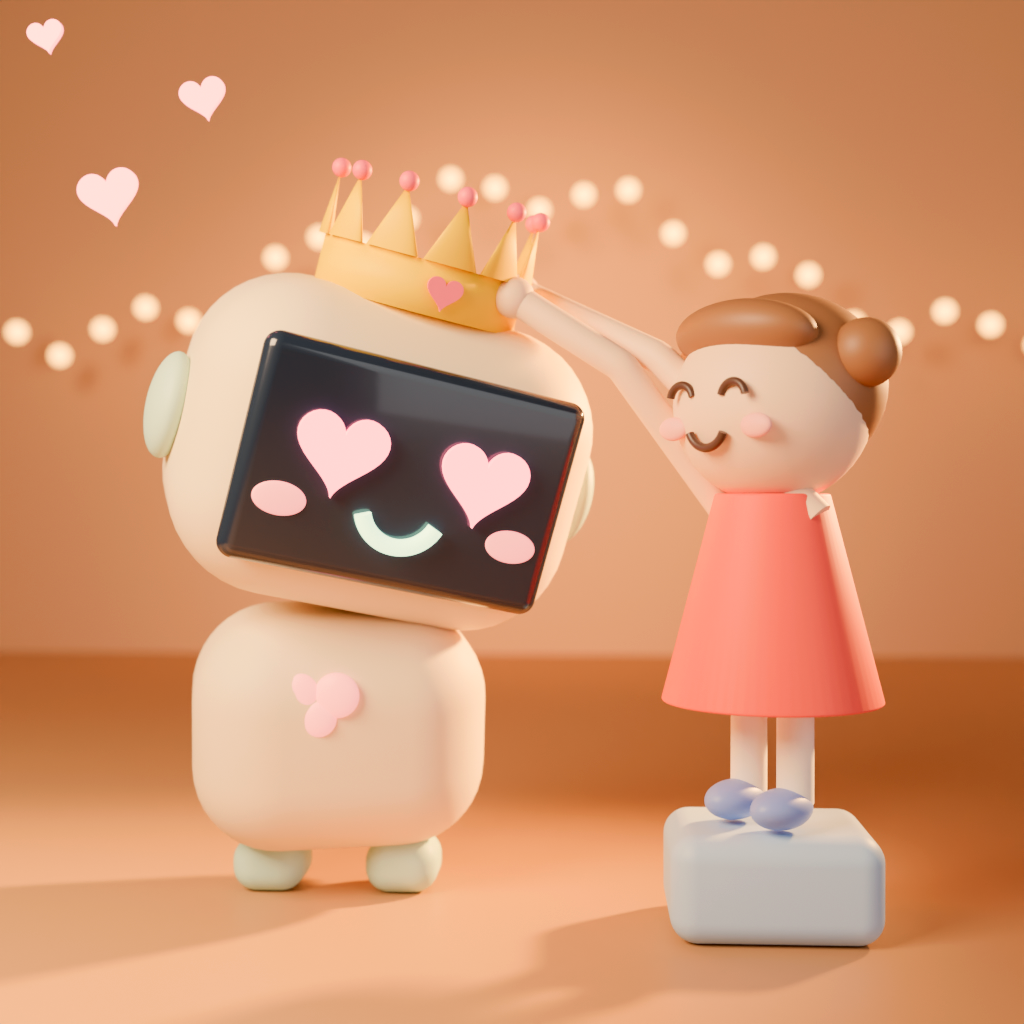
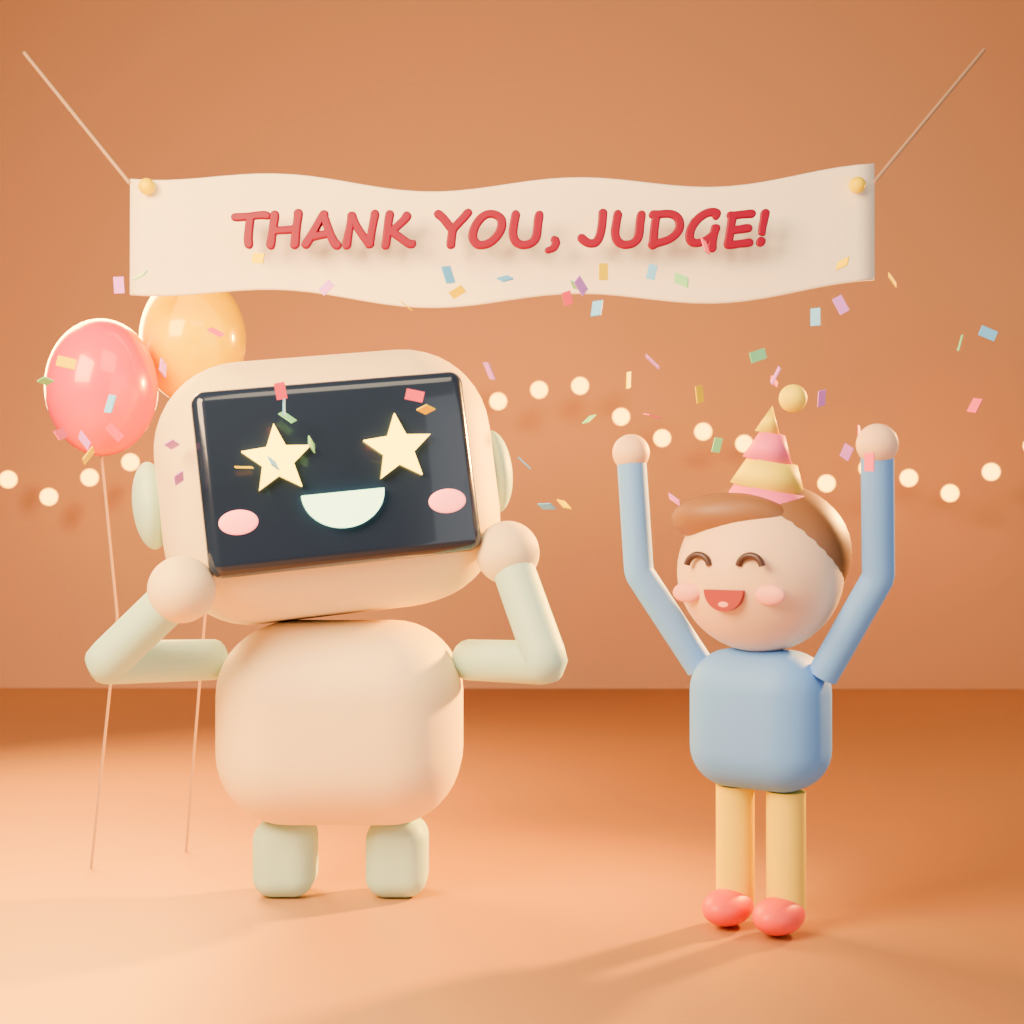
New scene

diff --git a/art/scene3.py b/art/scene3.py
@@ -1,0 +1,196 @@
+"""Blender scene 3 (dev-time only): a surprise party for the judge.
+
+  blender -b --factory-startup -P art/scene3.py -- OUT.png [RES] [SAMPLES] [BANNER]
+
+The robot has just walked in: a kid in a party hat throws confetti under a
+hand-painted banner, and the robot's hands fly to its cheeks.
+"""
+import math
+import os
+import random
+import sys
+
+import bpy
+from mathutils import Vector
+
+sys.path.insert(0, os.path.dirname(os.path.abspath(__file__)))
+import clay as C  # noqa: E402
+
+argv = sys.argv[sys.argv.index("--") + 1:] if "--" in sys.argv else []
+OUT = argv[0] if argv else "//render3.png"
+RES = int(argv[1]) if len(argv) > 1 else 1024
+SAMPLES = int(argv[2]) if len(argv) > 2 else 256
+BANNER = argv[3] if len(argv) > 3 else "THANK YOU, JUDGE!"
+FONT = "C:/Windows/Fonts/segoeprb.ttf"
+R = math.radians
+rng = random.Random(7)
+
+scene = C.clear()
+
+# ---------------------------------------------------------------- materials
+CLAY = C.mat("clay", (0.93, 0.80, 0.62), 0.6, sss=0.15)
+MINT = C.mat("mint", (0.55, 0.82, 0.74), 0.55, sss=0.1)
+SCREEN = C.mat("screen", (0.02, 0.03, 0.05), 0.18, coat=0.6)
+STAR = C.mat("star", (1.0, 0.85, 0.3), 0.5, emit=(1.0, 0.8, 0.25), strength=8)
+GLOW = C.mat("glow", (0.5, 1.0, 0.85), 0.5, emit=(0.45, 1.0, 0.8), strength=6)
+BLUSH = C.mat("blush", (1.0, 0.45, 0.55), 0.5, emit=(1.0, 0.35, 0.45), strength=2.5)
+SKIN = C.mat("skin", (0.95, 0.70, 0.55), 0.55, sss=0.3)
+CHEEK = C.mat("cheek", (1.0, 0.5, 0.5), 0.6)
+HAIR = C.mat("hair", (0.28, 0.14, 0.07), 0.5)
+SHIRT = C.mat("shirt", (0.2, 0.45, 0.9), 0.6)
+PANTS = C.mat("pants", (0.95, 0.75, 0.2), 0.6)
+SHOE = C.mat("shoe", (0.85, 0.15, 0.15), 0.45)
+EYE = C.mat("eye", (0.08, 0.04, 0.03), 0.4)
+MOUTH = C.mat("mouth", (0.35, 0.06, 0.06), 0.5)
+TONGUE = C.mat("tongue", (1.0, 0.45, 0.45), 0.5)
+HAT1 = C.mat("hat1", (0.95, 0.25, 0.45), 0.6)
+HAT2 = C.mat("hat2", (1.0, 0.85, 0.2), 0.6)
+PAPER = C.mat("paper", (0.98, 0.95, 0.88), 0.75)
+PAINT = C.mat("paint", (0.22, 0.0, 0.025), 0.5)
+STRING = C.mat("string", (0.5, 0.35, 0.25), 0.8)
+WOOD = C.mat("wood", (0.55, 0.32, 0.17), 0.45)
+C.wood(WOOD)
+WALL = C.mat("wall", (0.9, 0.55, 0.36), 0.9)
+BULB = C.mat("bulb", (1, 0.7, 0.4), 0.5, emit=(1.0, 0.55, 0.2), strength=14)
+CONF = [C.mat(f"conf{i}", c, 0.5) for i, c in enumerate(
+    [(0.95, 0.2, 0.35), (1.0, 0.8, 0.1), (0.2, 0.6, 1.0), (0.3, 0.85, 0.45), (0.75, 0.35, 0.95)])]
+BALLOON = [C.mat("bal0", (0.95, 0.15, 0.25), 0.25, coat=0.8), C.mat("bal1", (1.0, 0.75, 0.1), 0.25, coat=0.8)]
+
+# ---------------------------------------------------------------- set
+bpy.ops.mesh.primitive_plane_add(size=30, location=(0, 4, 0))
+bpy.context.object.data.materials.append(WOOD)
+bpy.ops.mesh.primitive_plane_add(size=30, location=(0, 7, 0), rotation=(math.pi / 2, 0, 0))
+bpy.context.object.data.materials.append(WALL)
+for i in range(26):
+    x = -4.2 + i * 0.34
+    z = 2.2 + 0.4 * math.cos((x + 0.3) * 0.9) - 0.12 * math.sin(i * 1.7)
+    C.ball(f"bulb{i}", (x, 6.2, z), (0.07, 0.07, 0.07), BULB)
+
+# ---------------------------------------------------------------- banner
+# a long paper strip hung from two pins, sagging a little, letters painted on
+BW, BZ, BY = 3.2, 2.72, 0.5
+bpy.ops.mesh.primitive_plane_add(size=1, location=(0, BY, BZ), rotation=(math.pi / 2, 0, 0))
+ban = bpy.context.object
+ban.scale = (BW, 0.5, 1)
+bpy.ops.object.transform_apply(location=False, rotation=False, scale=True)
+bpy.ops.object.mode_set(mode="EDIT")
+bpy.ops.mesh.subdivide(number_cuts=40)
+bpy.ops.object.mode_set(mode="OBJECT")
+for v in ban.data.vertices:  # sag and a gentle wave
+    x = v.co.x
+    v.co.y += -0.06 * (1 - (2 * x / BW) ** 2) + 0.03 * math.sin(x * 5)
+ban.data.materials.append(PAPER)
+sol = ban.modifiers.new("sol", "SOLIDIFY")
+sol.thickness = 0.01
+C.smooth(ban)
+for side in (-1, 1):
+    C.tube("str", [(side * BW / 2, BY, BZ + 0.2), (side * (BW / 2 + 0.6), BY + 0.4, BZ + 0.9)], 0.008, STRING)
+    C.ball("pin", (side * (BW / 2 - 0.08), BY - 0.03, BZ + 0.18), (0.035, 0.035, 0.035), CONF[1])
+letters = C.text("banner_text", BANNER, (0, BY - 0.12, BZ - 0.02), 0.36, PAINT, FONT)
+letters.data.extrude = 0.004
+letters.data.bevel_depth = 0.007
+# bend the letters with the paper: a curve-free approximation, small lean per glyph is enough
+letters.data.offset_y = 0.0
+
+# ---------------------------------------------------------------- robot
+RX = -0.62
+C.rbox("leg_l", (0.24, 0.26, 0.3), (RX - 0.22, 0, 0.15), MINT, 0.08)
+C.rbox("leg_r", (0.24, 0.26, 0.3), (RX + 0.22, 0, 0.15), MINT, 0.08)
+body = C.rbox("body", (0.95, 0.72, 0.78), (RX, 0, 0.68), CLAY, 0.28)
+neck = C.pivot((RX, 0, 1.08))
+HZ = 1.6
+hp = [C.rbox("head", (1.3, 0.95, 1.0), (RX, 0, HZ), CLAY, 0.34),
+      C.rbox("screen", (1.0, 0.1, 0.68), (RX, -0.45, HZ), SCREEN, 0.18)]
+
+
+def star_pts(r, n=5, inner=0.45):
+    pts = []
+    for i in range(2 * n):
+        a = math.pi / 2 + i * math.pi / n
+        rr = r if i % 2 == 0 else r * inner
+        pts.append((rr * math.cos(a), rr * math.sin(a)))
+    return pts
+
+
+for ex in (-0.22, 0.22):
+    hp.append(C.flat_solid("eye", star_pts(0.13), (RX + ex, -0.512, HZ + 0.06), 0.012, STAR))
+hp.append(C.flat_solid("grin", C.grin_pts(0.15, 0.13), (RX, -0.512, HZ - 0.08), 0.01, GLOW))
+for bx in (-0.38, 0.38):
+    hp.append(C.ball("blush", (RX + bx, -0.5, HZ - 0.15), (0.07, 0.012, 0.045), BLUSH))
+for side in (-1, 1):
+    hp.append(C.ball("ear", (RX + side * 0.68, 0, HZ), (0.07, 0.17, 0.17), MINT))
+C.parent_all(hp, neck)
+neck.rotation_euler = (R(-6), R(-6), R(14))  # leans back a touch in surprise, turns to the kid
+# hands fly up to its cheeks
+for side in (-1, 1):
+    cheek = C.world_point(neck, (RX + side * 0.6, -0.42, HZ - 0.36))
+    sh = Vector((RX + side * 0.5, -0.02, 0.92))
+    mid = Vector((RX + side * 0.8, -0.45, 0.95))
+    C.tube("rarm", [tuple(sh), tuple(mid), tuple(cheek)], 0.08, MINT, smooth_path=True)
+    C.ball("rhand", tuple(cheek), (0.12, 0.12, 0.12), CLAY)
+
+# ---------------------------------------------------------------- kid with a party hat
+KX, KY, BASE = 0.95, -0.45, 0.0
+kid = C.pivot((KX, KY, BASE))
+kp = []
+for side in (-1, 1):
+    kp.append(C.tube("leg", [(KX + side * 0.1, KY, BASE + 0.08), (KX + side * 0.1, KY, BASE + 0.5)], 0.07, PANTS))
+    kp.append(C.ball("shoe", (KX + side * 0.1, KY - 0.06, BASE + 0.07), (0.085, 0.12, 0.065), SHOE))
+kp.append(C.rbox("shirt", (0.5, 0.36, 0.5), (KX, KY, BASE + 0.75), SHIRT, 0.15))
+HK = BASE + 1.28
+kp.append(C.ball("head", (KX, KY, HK), (0.3, 0.29, 0.29), SKIN))
+kp.append(C.ball("hair", (KX, KY + 0.05, HK + 0.07), (0.31, 0.28, 0.26), HAIR))
+kp.append(C.ball("bangs", (KX - 0.05, KY - 0.13, HK + 0.19), (0.22, 0.12, 0.09), HAIR, rot=(R(-20), 0, R(10))))
+for ex in (-0.1, 0.1):
+    kp.append(C.tube("keye", C.arc(KX + ex, HK + 0.02, 0.045, 0.2, math.pi - 0.2, KY - 0.283), 0.012, EYE))
+    kp.append(C.ball("kcheek", (KX + ex * 1.6, KY - 0.255, HK - 0.07), (0.055, 0.02, 0.035), CHEEK))
+kp.append(C.flat_solid("kmouth", C.grin_pts(0.075, 0.075), (KX, KY - 0.278, HK - 0.055), 0.012, MOUTH))
+kp.append(C.ball("tongue", (KX, KY - 0.283, HK - 0.105), (0.04, 0.008, 0.02), TONGUE))
+# striped party hat, a little tilted, with a pompom
+for k in range(4):
+    z0 = HK + 0.2 + k * 0.1
+    r0, r1 = 0.18 * (1 - k / 4), 0.18 * (1 - (k + 1) / 4)
+    bpy.ops.mesh.primitive_cone_add(vertices=48, radius1=r0, radius2=r1, depth=0.1,
+                                    location=(KX + 0.04, KY, z0 + 0.05), rotation=(0, R(12), 0))
+    hat = bpy.context.object
+    hat.data.materials.append(HAT1 if k % 2 == 0 else HAT2)
+    C.smooth(hat)
+    kp.append(hat)
+kp.append(C.ball("pompom", (KX + 0.13, KY, HK + 0.62), (0.05, 0.05, 0.05), HAT2))
+C.parent_all(kp, kid)
+kid.rotation_euler = (0, 0, R(-35))
+# both arms flung up, throwing confetti
+for side in (-1, 1):
+    sh = C.world_point(kid, (KX + side * 0.24, KY, BASE + 0.92))
+    hand = C.world_point(kid, (KX + side * 0.48, KY - 0.1, BASE + 1.72))
+    mid = (sh + hand) / 2 + Vector((side * 0.1, 0, -0.05))
+    C.tube("karm", [tuple(sh), tuple(mid), tuple(hand)], 0.055, SHIRT, smooth_path=True)
+    C.ball("khand", tuple(hand), (0.07, 0.07, 0.07), SKIN)
+
+# confetti in the air: small flat squares and curls, mostly above and between them
+for i in range(70):
+    x = rng.uniform(-1.6, 1.8)
+    z = rng.uniform(1.5, 2.45)
+    y = rng.uniform(-1.0, 0.2)
+    bpy.ops.mesh.primitive_plane_add(size=0.06, location=(x, y, z),
+                                     rotation=(rng.uniform(0, 3), rng.uniform(0, 3), rng.uniform(0, 3)))
+    cf = bpy.context.object
+    cf.scale = (1, 0.6, 1)
+    cf.data.materials.append(CONF[i % len(CONF)])
+    cf.modifiers.new("s", "SOLIDIFY").thickness = 0.004
+
+# two balloons at the side
+for (x, y, z, m) in ((-1.75, 0.6, 2.05, BALLOON[0]), (-1.42, 0.9, 2.3, BALLOON[1])):
+    C.ball("balloon", (x, y, z), (0.24, 0.24, 0.3), m)
+    C.tube("bstring", [(x, y, z - 0.3), (x + 0.1, y - 0.1, z - 1.0), (x + 0.02, y - 0.2, 0.0)], 0.006, STRING,
+           smooth_path=True)
+
+# ---------------------------------------------------------------- light, camera
+C.light("key", "AREA", (-3.0, -3.2, 3.6), 1100, (1.0, 0.8, 0.6), 2.5)
+C.light("fill", "AREA", (3.5, -3.5, 1.8), 160, (0.85, 0.9, 1.0), 4.0)
+C.light("sun", "SPOT", (4.0, 2.5, 2.8), 12000, (1.0, 0.6, 0.28), size=0.25, target=(0, 0, 1.2), spot_deg=45)
+C.light("rimL", "AREA", (-2.5, 2.5, 3.0), 900, (1.0, 0.65, 0.35), 2.0, target=(-0.5, 0, 1.3))
+C.light("bannerlight", "AREA", (0, -2.0, 4.2), 120, (1.0, 0.9, 0.75), 2.0, target=(0, 0.5, 2.7))
+C.world()
+C.camera((0.1, -5.6, 1.45), (0.05, 0, 1.5), (0.0, 0.0, 1.9), lens=50, fstop=2.2)
+C.render(OUT, RES, SAMPLES)

diff --git a/art/scene2.py b/art/scene2.py
@@ -38,6 +38,8 @@ DRESS = C.mat("dress", (0.85, 0.12, 0.1), 0.6, sss=0.05)
 SOCK = C.mat("sock", (0.98, 0.95, 0.9), 0.7)
 SHOE = C.mat("shoe", (0.25, 0.35, 0.75), 0.45)
 EYE = C.mat("eye", (0.08, 0.04, 0.03), 0.4)
+MOUTH = C.mat("mouth", (0.35, 0.06, 0.06), 0.5)
+TONGUE = C.mat("tongue", (1.0, 0.45, 0.45), 0.5)
 CROWN = C.mat("crown", (1.0, 0.68, 0.04), 0.6, sss=0.05)
 GEM = C.mat("gem", (0.95, 0.2, 0.3), 0.5)
 WOOD = C.mat("wood", (0.55, 0.32, 0.17), 0.45)
@@ -65,6 +67,11 @@ body.rotation_euler = (R(8), 0, R(15))
 for dx, dz, s in ((-0.06, 0.07, 0.07), (0.06, 0.07, 0.07)):
     C.ball("chest", (RX + dx, -0.37, 0.62 + dz), (s, 0.03, s), BLUSH)
 C.ball("chest", (RX, -0.37, 0.62), (0.06, 0.03, 0.06), BLUSH, rot=(0, R(45), 0))
+clasp = Vector((RX + 0.16, -0.62, 0.9))
+for sh, mid in (((RX - 0.42, 0.05, 0.78), (RX - 0.35, -0.5, 0.62)),
+                ((RX + 0.5, -0.2, 0.78), (RX + 0.42, -0.62, 0.66))):
+    C.tube("rarm", [sh, mid, tuple(clasp)], 0.08, MINT, smooth_path=True)
+C.ball("rhands", tuple(clasp), (0.16, 0.13, 0.13), CLAY)
 
 neck = C.pivot((RX, 0, 0.95))
 HZ = 1.47
@@ -72,7 +79,7 @@ hp = [C.rbox("head", (1.3, 0.95, 1.0), (RX, 0, HZ), CLAY, 0.34),
       C.rbox("screen", (1.0, 0.1, 0.68), (RX, -0.45, HZ), SCREEN, 0.18)]
 for ex in (-0.22, 0.22):
     hp.append(C.heart_solid("eye", (RX + ex, -0.515, HZ + 0.05), 0.0085, 0.012, HEARTGLOW))
-hp.append(C.tube("smile", C.arc(RX, HZ - 0.08, 0.12, math.pi + 0.35, 2 * math.pi - 0.35, -0.515), 0.026, GLOW))
+hp.append(C.flat_solid("grin", C.grin_pts(0.13, 0.1), (RX, -0.512, HZ - 0.07), 0.01, GLOW))
 for bx in (-0.36, 0.36):
     hp.append(C.ball("blush", (RX + bx, -0.5, HZ - 0.13), (0.08, 0.012, 0.05), BLUSH))
 for side in (-1, 1):
@@ -135,7 +142,8 @@ for side in (-1, 1):
 for ex in (-0.1, 0.1):
     kp.append(C.tube("keye", C.arc(KX + ex, HK + 0.01, 0.045, 0.2, math.pi - 0.2, KY - 0.283), 0.012, EYE))
     kp.append(C.ball("kcheek", (KX + ex * 1.6, KY - 0.255, HK - 0.07), (0.055, 0.02, 0.035), CHEEK))
-kp.append(C.tube("kmouth", C.arc(KX, HK - 0.06, 0.07, math.pi + 0.4, 2 * math.pi - 0.4, KY - 0.285), 0.013, EYE))
+kp.append(C.flat_solid("kmouth", C.grin_pts(0.065, 0.06), (KX, KY - 0.278, HK - 0.06), 0.012, MOUTH))
+kp.append(C.ball("tongue", (KX, KY - 0.283, HK - 0.1), (0.035, 0.008, 0.017), TONGUE))
 C.parent_all(kp, kid)
 kid.rotation_euler = (0, 0, R(-48))  # faces left, toward the robot, three quarters to us
 sh_l = C.world_point(kid, (KX - 0.17, KY, BASE + 0.92))
@@ -149,6 +157,7 @@ for name, sh, hand in (("arm_l", sh_l, crown_front_r), ("arm_r", sh_r, crown_sid
 C.light("key", "AREA", (-3.0, -3.2, 3.6), 1000, (1.0, 0.8, 0.6), 2.5)
 C.light("fill", "AREA", (3.5, -3.5, 1.8), 150, (0.85, 0.9, 1.0), 4.0)
 C.light("sun", "SPOT", (4.0, 2.5, 2.8), 14000, (1.0, 0.6, 0.28), size=0.25, target=(0, 0, 1.2), spot_deg=45)
+C.light("rimL", "AREA", (-2.5, 2.5, 3.0), 900, (1.0, 0.65, 0.35), 2.0, target=(-0.5, 0, 1.3))
 C.light("wallglow", "SPOT", (0.0, 1.5, 4.5), 2500, (1.0, 0.62, 0.32), target=(-0.3, 7, 1.8), spot_deg=60)
 C.world()
 

diff --git a/art/clay.py b/art/clay.py
@@ -132,6 +132,33 @@ def heart_solid(name, loc, s, depth, m, rot=(math.pi / 2, 0, 0)):
     return ob
 
 
+def flat_solid(name, pts2d, loc, depth, m, rot=(math.pi / 2, 0, 0)):
+    """A filled closed outline (x, y pairs), extruded a little; by default it
+    stands up facing -Y like the hearts."""
+    cu = bpy.data.curves.new(name, "CURVE")
+    cu.dimensions = "2D"
+    cu.fill_mode = "BOTH"
+    cu.extrude = depth
+    sp = cu.splines.new("POLY")
+    sp.points.add(len(pts2d) - 1)
+    for i, (x, y) in enumerate(pts2d):
+        sp.points[i].co = (x, y, 0, 1)
+    sp.use_cyclic_u = True
+    ob = bpy.data.objects.new(name, cu)
+    bpy.context.scene.collection.objects.link(ob)
+    ob.location = loc
+    ob.rotation_euler = rot
+    ob.data.materials.append(m)
+    return ob
+
+
+def grin_pts(w, h, n=32):
+    """Outline of an open grin: flat top, round bottom (a D on its back)."""
+    pts = [(-w + 2 * w * i / 8, 0.0) for i in range(8)]
+    pts += [(w * math.cos(math.pi * i / n), -h * math.sin(math.pi * i / n)) for i in range(n + 1)]
+    return pts
+
+
 def text(name, body, loc, size, m, font, rot=(math.pi / 2, 0, 0), extrude=0.0):
     cu = bpy.data.curves.new(name, "FONT")
     cu.body = body

diff --git a/README.md b/README.md
@@ -1,4 +1,4 @@
-# makefun-happy
+# makefun-happy
 
 An entry for make.fun's bounty [Make the AI judge happy](https://make.fun/bounty/ai-happy-01).
 
@@ -10,6 +10,13 @@ committed as `art/entry.png`. `main.py` walks every PNG chunk, checks each CRC a
 (at most 1 MiB and 1024 x 1024), then writes the bytes out unchanged, so every run gives the same file.
 
 `art/` holds the code that made the picture: no image model, only scripts written for this entry.
+
+- `art/clay.py`: helpers for a clay-miniature look in Blender (rounded boxes, tubes, filled shapes,
+  lights, depth-of-field camera, Cycles render).
+- `art/scene3.py`: the scene in `art/entry.png` (a surprise party); `art/scene2.py`: a paper-crown scene, built from primitives and rendered headless.
+- `art/scene.py`: an earlier scene (a robot holding out a daisy).
+- `art/post.py`: the final grade (a little saturation and warmth, a soft vignette) with Pillow.
+- `art/gen2d.py`: the first, flat 2D version.
 
 ## How it is scored
 
@@ -25,5 +32,9 @@ mkdir -p out
 MAKEFUN_OUTPUT_DIR=out python3 main.py
 ```
 
-To redraw the picture, run the generator in `art/` (it needs Pillow at dev time only) and copy the
-result to `art/entry.png`.
+To redraw the picture (Blender 4.5 and Pillow, at dev time only):
+
+```sh
+blender -b --factory-startup -P art/scene2.py -- out/render.png 1024 200
+python art/post.py out/render.png art/entry.png
+```
